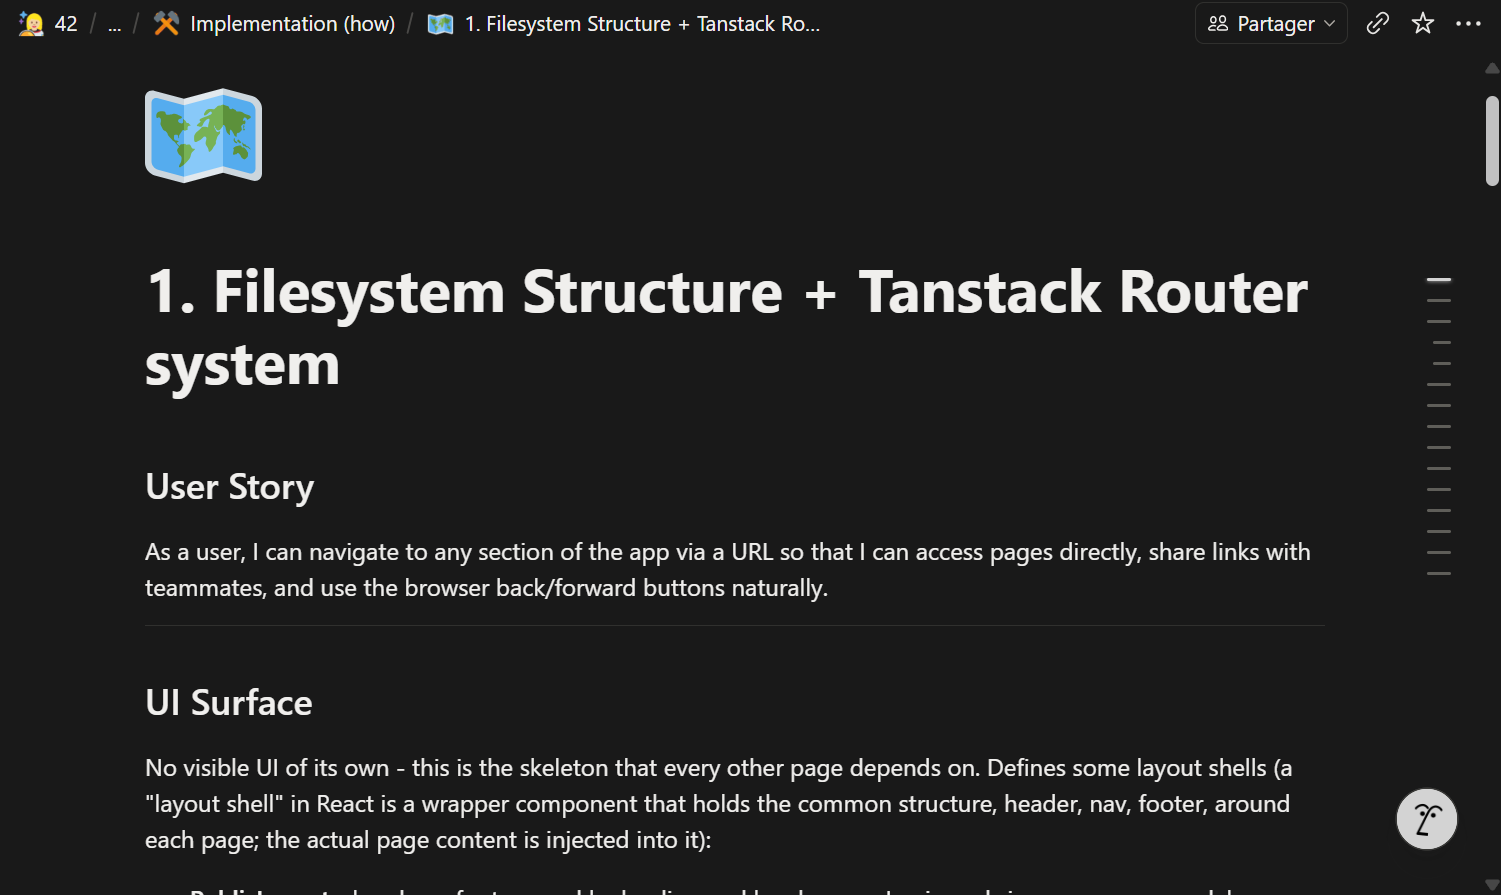
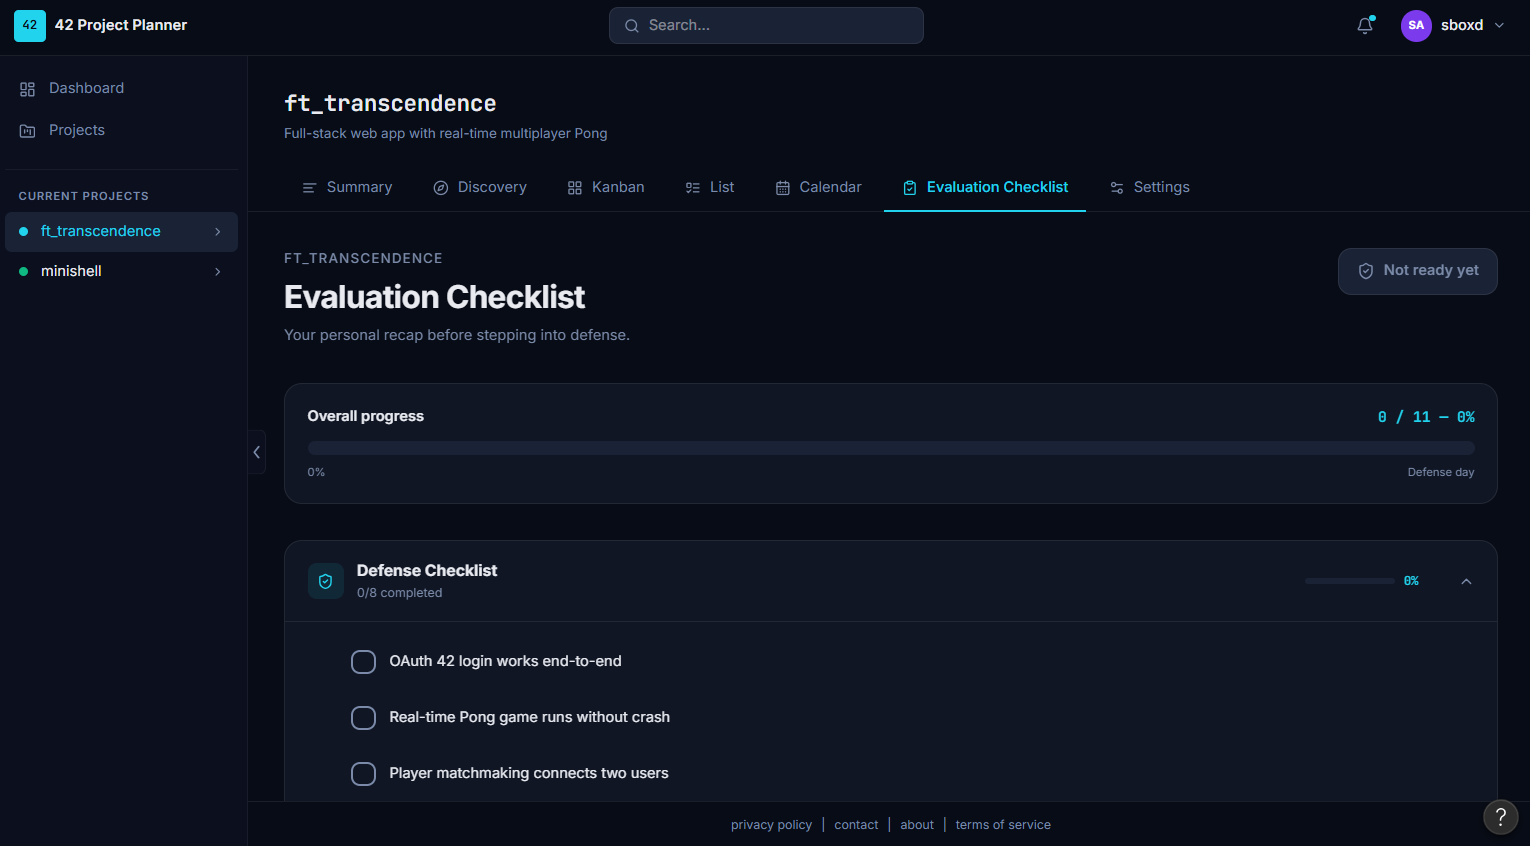
feat(TR-40): write real landing page copy and swap carousel screenshots
Replace placeholder hero/carousel text with real content (title, hero
copy on why the tool exists, and 3 carousel slides), and swap the
dummy Notion screenshots for actual Figma mockups matching each slide.

diff --git a/frontend/src/routes/_public/index.tsx b/frontend/src/routes/_public/index.tsx
@@ -13,36 +13,48 @@ export const Route = createFileRoute("/_public/")({
   component: LandingPage,
 });
 
-// TEMP placeholder screenshots - replace with final production screenshots and texts later
+// TEMP placeholder screenshots and copy - replace with final production content later
 const CAROUSEL_SLIDES = [
   {
     image: "/images/landing-carousel-1.png",
-    alt: "Task Rabbit kanban board",
-    title: "Visualize your project like never before",
-    text: "Drag-and-drop tasks across customizable columns. Assign teammates, set deadlines, and track progress - all in one view.",
+    alt: "Projects list showing multiple projects with their team members",
+    title: "Solo or with a team",
+    text: "Working alone? Track your own progress from the first read of the subject to the final defense. Working with others? Create a team, invite your teammates, and split the work together. Same tool, either way.",
   },
   {
     image: "/images/landing-carousel-2.png",
-    alt: "List of features documentation",
-    title: "Every feature planned in detail",
-    text: "From foundation to global layout, each feature has its own implementation page - what to build, how to build it, and how to know when it's done.",
+    alt: "Project summary page with tabs for Discovery, Kanban, List, Calendar, and Evaluation Checklist",
+    title: "Everything you need, in one place",
+    text: "Start with the discovery page to lay out your project before touching any code. Split the work into a Kanban board, switch to task lists when you need a different view, and check the calendar to see deadlines and everyone's availability.",
   },
   {
     image: "/images/landing-carousel-3.png",
-    alt: "Filesystem structure documentation",
-    title: "Built for 42 project sprints",
-    text: "Fast, focused, and designed around the way we actually work on Transcendence.",
+    alt: "Evaluation checklist with defense-readiness items to check off",
+    title: "Your own defense checklist",
+    text: "Build your own checklist of what you need before defense, check things off at your own pace, and decide for yourself when you're ready. It's your list, not a grade sheet we hand you.",
   },
 ];
 
 function LandingPage() {
   return (
     <>
-      <div className="flex flex-col items-center justify-center bg-surface-base py-32 text-text-primary">
-        <h1 className="text-4xl font-bold tracking-tight">
+      <div className="flex flex-col items-center justify-center bg-surface-base px-4 py-16 text-text-primary sm:py-20 lg:py-28">
+        <h1 className="text-center text-3xl font-bold tracking-tight sm:text-4xl lg:text-5xl">
           42 Project Planner
         </h1>
-        <p className="mt-4 text-text-secondary">Tailwind is working.</p>
+        <p className="mt-4 max-w-xl text-center text-text-secondary">
+          A workspace built by 42 students, for the way we actually get projects
+          done, solo or with a team.
+        </p>
+        <p className="mt-6 max-w-2xl text-center text-text-secondary">
+          Starting a project is hard enough already. Throw in team coordination,
+          deadlines, and tools built for companies instead of students, and it
+          gets messy fast. Most of us don't even bother: we don't know what's
+          out there, the market options feel like overkill for what we actually
+          need, or we're just lazy about it. But organizing your work is a real
+          skill, one you'll need for real once you're on a dev team. So we built
+          our own, simple, and made for the way 42 actually works.
+        </p>
       </div>
 
       {/* Fixed height (not h-full) - Flowbite's internal Carousel wrapper has no